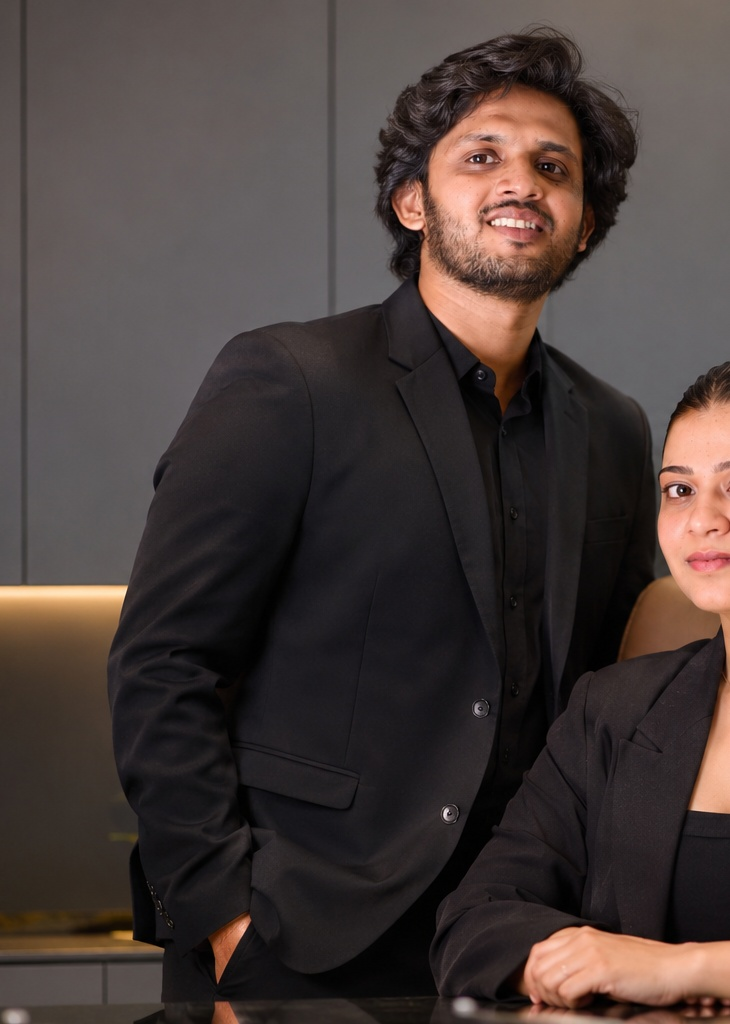
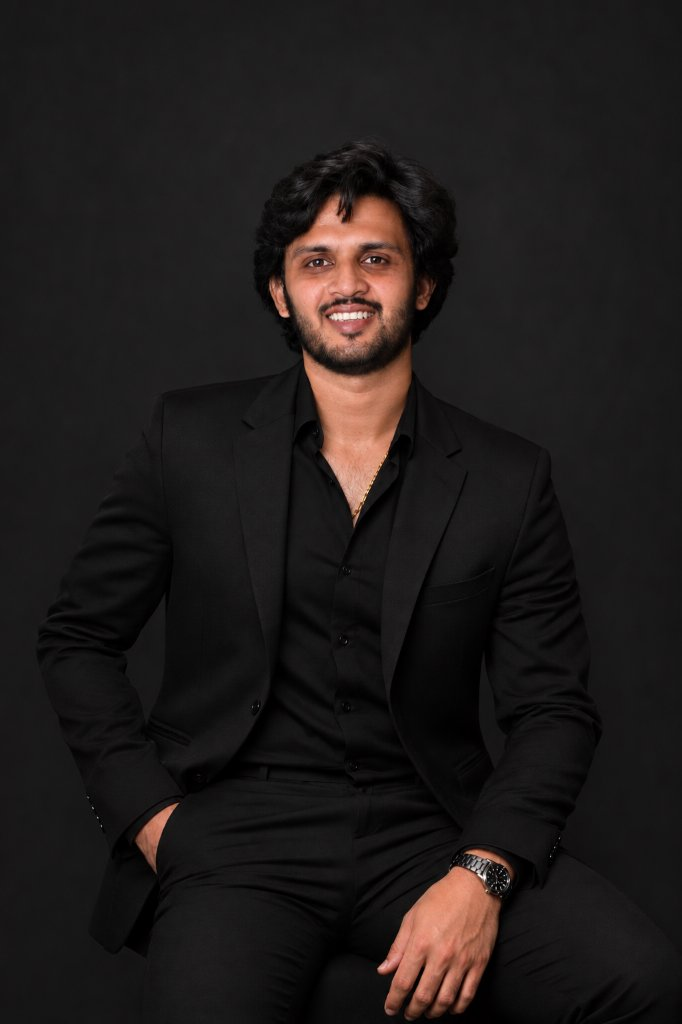
Update founder portrait and streamline leadership section on about page

diff --git a/about.html b/about.html
@@ -145,31 +145,8 @@
     <div class="container">
       <div class="value-prop-grid" style="align-items: flex-start; gap: 54px;">
         <div class="value-prop-visual">
-          <div class="leadership-img-frame" style="box-shadow: 0 20px 50px rgba(0,0,0,0.6), 0 0 30px rgba(250, 107, 5, 0.08); border: 1px solid rgba(250, 107, 5, 0.25);">
-            <img src="assets/stratum-leadership.jpg?v=2.0" alt="Priyank Patel (Founder) and Surbhi Patel (Co-Founder) - Stratum MEP Engineering Leadership" class="leadership-img" style="width:100%; height:auto; display:block; object-fit:cover;">
-          </div>
-          
-          <!-- Leadership Identity Cards below image -->
-          <div class="about-leadership-panel" style="margin-top: 24px; padding: 20px; background: #0A0A0B; border: 1px solid rgba(255, 255, 255, 0.08); border-radius: var(--radius-lg);">
-            <div style="font-family: var(--font-main); font-size: 11px; font-weight: 700; color: var(--color-copper); letter-spacing: 1.5px; text-transform: uppercase; margin-bottom: 14px;">
-              OUR LEADERSHIP
-            </div>
-            <div style="display: grid; grid-template-columns: repeat(auto-fit, minmax(130px, 1fr)); gap: 12px;">
-              <div style="padding: 12px 14px; background: rgba(255, 255, 255, 0.03); border: 1px solid rgba(255, 255, 255, 0.07); border-radius: 8px; display: flex; align-items: center; gap: 12px;">
-                <img src="assets/leadership-priyank-patel.jpg?v=1.0" alt="Priyank Patel" style="width: 44px; height: 44px; border-radius: 50%; object-fit: cover; object-position: center top; border: 2px solid var(--color-copper); flex-shrink: 0;">
-                <div>
-                  <h4 style="margin: 0 0 2px; font-size: 15px; font-weight: 700; color: #FFFFFF;">Priyank Patel</h4>
-                  <span style="font-size: 12.5px; color: var(--color-copper); font-weight: 600;">Founder</span>
-                </div>
-              </div>
-              <div style="padding: 12px 14px; background: rgba(255, 255, 255, 0.03); border: 1px solid rgba(255, 255, 255, 0.07); border-radius: 8px; display: flex; align-items: center; gap: 12px;">
-                <img src="assets/leadership-surbhi-patel.jpg?v=1.0" alt="Surbhi Patel" style="width: 44px; height: 44px; border-radius: 50%; object-fit: cover; object-position: center top; border: 2px solid var(--color-copper); flex-shrink: 0;">
-                <div>
-                  <h4 style="margin: 0 0 2px; font-size: 15px; font-weight: 700; color: #FFFFFF;">Surbhi Patel</h4>
-                  <span style="font-size: 12.5px; color: var(--color-copper); font-weight: 600;">Co-Founder</span>
-                </div>
-              </div>
-            </div>
+          <div class="leadership-img-frame" style="box-shadow: 0 20px 50px rgba(0,0,0,0.6), 0 0 30px rgba(250, 107, 5, 0.08); border: 1px solid rgba(250, 107, 5, 0.25); border-radius: var(--radius-lg); overflow: hidden;">
+            <img src="assets/stratum-leadership.jpg?v=2.0" alt="Stratum MEP Engineering" class="leadership-img" style="width:100%; height:auto; display:block; object-fit:cover;">
           </div>
         </div>
 
@@ -209,6 +186,7 @@
     </div>
   </section>
 
+
   <!-- ==========================================================================
        OUR LEADERSHIP (Full Executive Profiles)
        ========================================================================== -->
@@ -226,7 +204,7 @@
         <!-- Priyank Patel Card -->
         <div class="leadership-card">
           <div style="position: relative; overflow: hidden; aspect-ratio: 4/5; background: #000000;">
-            <img src="assets/leadership-priyank-patel.jpg?v=1.0" alt="Priyank Patel - Founder" style="width: 100%; height: 100%; object-fit: cover; object-position: center top; display: block;">
+            <img src="assets/leadership-priyank-patel.jpg?v=3.0" alt="Priyank Patel - Founder" style="width: 100%; height: 100%; object-fit: cover; object-position: center top; display: block;">
             <div style="position: absolute; inset: 0; background: linear-gradient(to top, rgba(10, 10, 11, 0.9) 0%, rgba(10, 10, 11, 0.2) 40%, transparent 100%);"></div>
             <div style="position: absolute; bottom: 18px; left: 20px; right: 20px;">
               <span style="display: inline-block; padding: 4px 12px; background: var(--color-copper); border: 1px solid var(--color-copper); border-radius: 9999px; font-size: 11px; font-weight: 700; color: #FFFFFF; letter-spacing: 1px; text-transform: uppercase;">Founder</span>
@@ -244,7 +222,7 @@
         <!-- Surbhi Patel Card -->
         <div class="leadership-card">
           <div style="position: relative; overflow: hidden; aspect-ratio: 4/5; background: #000000;">
-            <img src="assets/leadership-surbhi-patel.jpg?v=1.0" alt="Surbhi Patel - Co-Founder" style="width: 100%; height: 100%; object-fit: cover; object-position: center top; display: block;">
+            <img src="assets/leadership-surbhi-patel.jpg?v=2.0" alt="Surbhi Patel - Co-Founder" style="width: 100%; height: 100%; object-fit: cover; object-position: center top; display: block;">
             <div style="position: absolute; inset: 0; background: linear-gradient(to top, rgba(10, 10, 11, 0.9) 0%, rgba(10, 10, 11, 0.2) 40%, transparent 100%);"></div>
             <div style="position: absolute; bottom: 18px; left: 20px; right: 20px;">
               <span style="display: inline-block; padding: 4px 12px; background: var(--color-copper); border: 1px solid var(--color-copper); border-radius: 9999px; font-size: 11px; font-weight: 700; color: #FFFFFF; letter-spacing: 1px; text-transform: uppercase;">Co-Founder</span>
